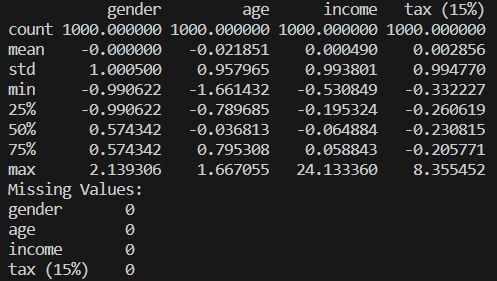
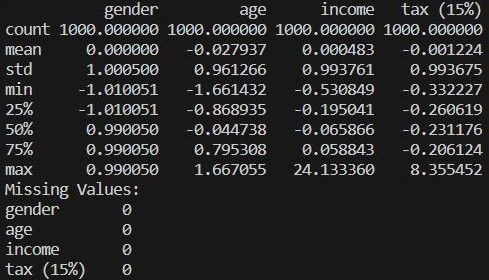
Lab 4 - Correction

diff --git a/Lab 4/Lab 4.py b/Lab 4/Lab 4.py
@@ -43,7 +43,10 @@ print(data.describe())
 print('Missing Values:')
 print(data.isna().sum())
 
-# Encode 'gender' column with Male and Female value to numeric value for ML algorithm
+# Fill 'Male' or 'Female' value randomly for 'gender' column if the value is missing
+data['gender'] = data['gender'].fillna(pd.Series(np.random.choice(['Male', 'Female'], size=len(data.index))))
+
+# Encode 'gender' column with Male and Female value to numeric value 0 and 1 for ML algorithm
 from sklearn import preprocessing
 encoder = preprocessing.LabelEncoder()
 data['gender'] = encoder.fit_transform(data['gender'])
@@ -60,7 +63,6 @@ imputer = KNNImputer()
 filledData = imputer.fit_transform(data)
 
 # Formating the data to look like it was initially
-id_col = list(range(1, 1001))
 cols = ['gender', 'age', 'income', 'tax (15%)']
 finalData = pd.DataFrame(data = filledData, columns = cols)
 print(finalData.describe())
